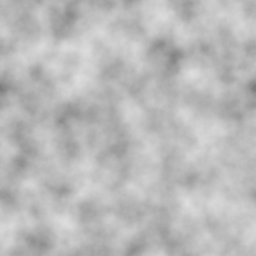
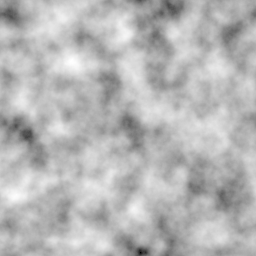
Normalize results of jacob's loop so that full color range is used

diff --git a/README.md b/README.md
@@ -30,7 +30,7 @@ This dialog contains the following inputs:
  - FPS - Converted to frame duration.
  - Colors - Colors to mix by noise factor.
 
-Color is mixed in linear sRGB. To make a smooth animation with fewer frames, reduce the radius. To make the noise gradient less smooth, more appropriate for pixel art, increase the quantization (but keep at a low number). Tiled noise stretches its aspect ratio with the sprite size. An animated .gif generated by this script looks like this:
+Color is mixed in linear sRGB. To make a smooth animation with fewer frames, reduce the radius. To make the noise gradient discrete, increase the quantization (but keep at a low number). Tiled noise stretches its aspect ratio with the sprite size. An animated .gif generated by this script looks like this:
 
 ![Animated](animNoise.gif)
 
